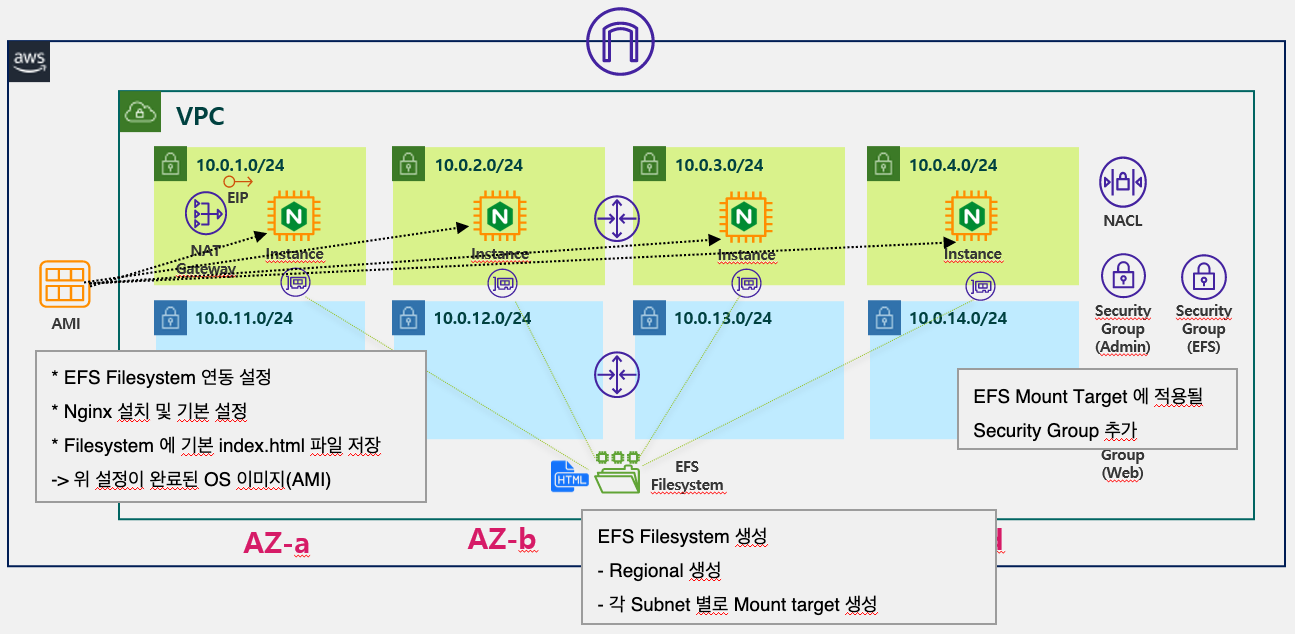
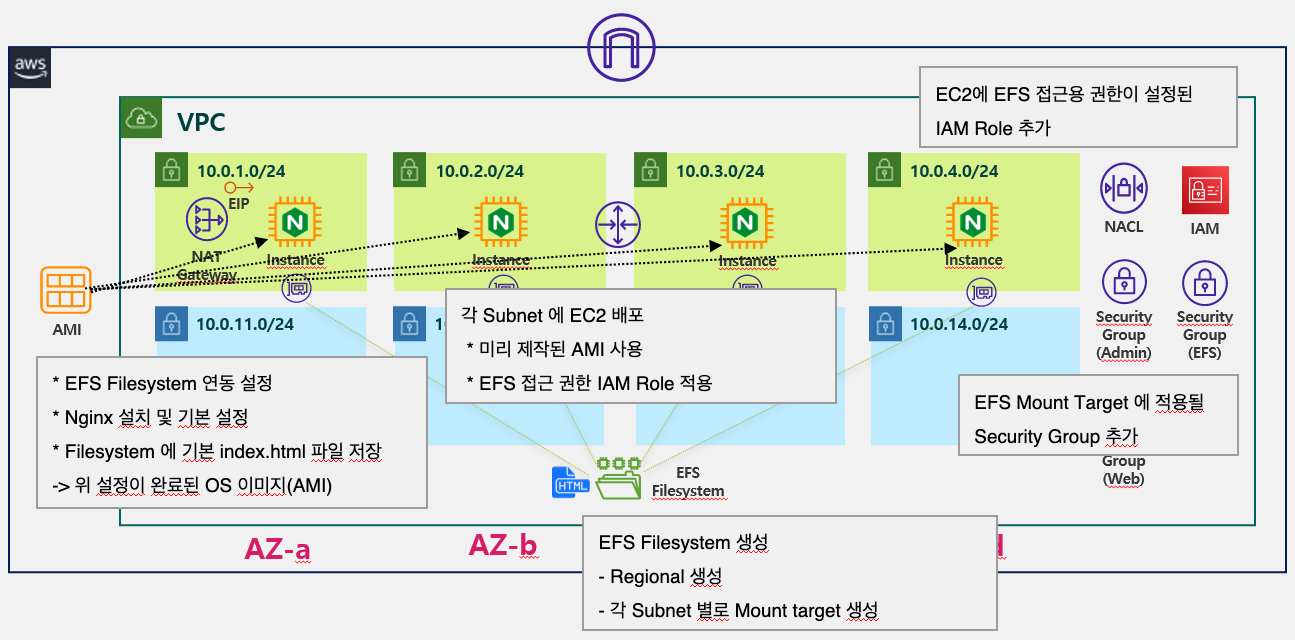
update image

Changed region(s): [[0.0, 0.0, 1.0, 0.989], [0.7722, 0.8091, 0.9575, 0.8391]]

diff --git a/aws/10-efs/02-ec2/README.md b/aws/10-efs/02-ec2/README.md
@@ -1,7 +1,7 @@
 # Info
 Terraform VPC + EC2 with EFS Example
 
-![](../img/10-efs-diagram.png)
+![](../img/10-02-ec2-diagram.png)
 
 #### EC2 with EFS
 * 각 Public Subnet 에 이전에 생성한 AMI 로 EC2 Instance 배포

diff --git a/aws/10-efs/01-efs/README.md b/aws/10-efs/01-efs/README.md
@@ -1,7 +1,7 @@
 # Info
 Terraform VPC + EC2 with EFS Example
 
-![](../img/10-efs-diagram.png)
+![](../img/10-01-efs-diagram.png)
 
 #### VPC (Terraform 사용)
 * VPC CIDR 은 10.0.0.0/16 
